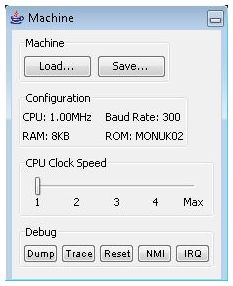
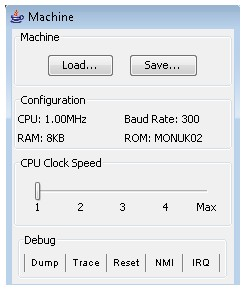
Updates for better operation on a Mac

diff --git a/docs/operation.html b/docs/operation.html
@@ -161,9 +161,8 @@ default mode is likely to confuse things.</p>
 These are used to perform a hardware reset on the CPU and on a real UK101
 you need to press both keys together to reset (the idea being that you
 don't press one accidentally while stabbing for the <tt>RETURN</tt> key).
-To emulate this in the simulator you can only do a reset by clicking
-one of the <tt>RESET</tt> keys (either one) with both mouse buttons 
-at once.</p>
+To emulate this in the simulator you can only do a reset by double-clicking
+either one of the <tt>RESET</tt> keys.</p>
 <hr>
 <h2 id="opcas">The Cassette Recorder</h2>
 <img src="image/opcas.jpg" alt="Cassette Recorder" align="left" hspace="10"/>

diff --git a/docs/quickstart.html b/docs/quickstart.html
@@ -147,8 +147,8 @@ in the <b>Debug</b> section of the
 <a href="operation.html#opctl">machine control panel</a>, or you can use 
 the <i>RESET</i> keys on the keyboard. 
 On a real UK101 you had to press both <i>RESET</i> keys together to do the 
-reset, on the simulator keyboard you simulate this by clicking on either one
-of the two keys but using both mouse buttons at once.</p>
+reset, on the simulator keyboard you simulate this by double-clicking on either 
+one of the two keys.</p>
 <br><table border="1" frame="above" rules="none" width="100%">
 <tr><td align="left">Tim Baldwin<br>April 2011
 <br><a href="mailto:tjb101@tinymail.co.uk">tjb101@tinymail.co.uk</a></td>

diff --git a/src/uk101/view/MachineView.java b/src/uk101/view/MachineView.java
@@ -6,23 +6,24 @@
 package uk101.view;
 
 import java.awt.Container;
-import java.awt.Dimension;
-import java.awt.FlowLayout;
 import java.awt.GridLayout;
 import java.awt.event.ActionEvent;
 import java.awt.event.ActionListener;
 
 import javax.swing.BorderFactory;
+import javax.swing.Box;
+import javax.swing.BoxLayout;
 import javax.swing.JButton;
+import javax.swing.JComponent;
 import javax.swing.JInternalFrame;
 import javax.swing.JPanel;
+import javax.swing.JToolBar;
 import javax.swing.Timer;
 import javax.swing.event.ChangeEvent;
 import javax.swing.event.ChangeListener;
 
 import uk101.machine.Computer;
 import uk101.view.component.DisplayText;
-import uk101.view.component.FlowPanel;
 import uk101.view.component.SmallButton;
 import uk101.view.component.SmallToggle;
 import uk101.view.component.SpeedSelector;
@@ -46,7 +47,7 @@ public class MachineView extends JInternalFrame implements ActionListener, Chang
     private Timer speedTimer;
 
     public MachineView(Computer computer, ComputerView computerView) {
-        super("Machine", true, false, false, true);
+        super("Machine", false, false, false, true);
         this.computer = computer;
 
         // Timer to update CPU actual speed
@@ -57,17 +58,18 @@ public class MachineView extends JInternalFrame implements ActionListener, Chang
 
         // Machine image load/save
         JPanel mp = new JPanel();
+        mp.setAlignmentY(CENTER_ALIGNMENT);
         mp.setBorder(BorderFactory.createTitledBorder("Machine"));
-        ((FlowLayout)mp.getLayout()).setHgap(5);
         JButton load = new JButton(ComputerView.IMAGE_LOAD);
         JButton save = new JButton(ComputerView.IMAGE_SAVE);
         load.addActionListener(computerView);
         save.addActionListener(computerView);
-        mp.add(load);
+        mp.add(load);  mp.add(Box.createHorizontalStrut(5));
         mp.add(save);
 
         // Information panel
         JPanel ip = new JPanel(new GridLayout(0, 2, 5, 5));
+        ip.setAlignmentY(CENTER_ALIGNMENT);
         ip.setBorder(BorderFactory.createTitledBorder("Configuration"));
         speed = new DisplayText("CPU", computer.cpu.getMHz() + ".00MHz");
         baud = new DisplayText("Baud Rate", computer.acia.getBaudRate() + "");
@@ -77,31 +79,46 @@ public class MachineView extends JInternalFrame implements ActionListener, Chang
         ip.add(new DisplayText("ROM", computer.monitor.getName()));
 
         // Debug panel
-        JPanel db = new JPanel();
-        db.setBorder(BorderFactory.createTitledBorder("Debug"));
-        ((FlowLayout)db.getLayout()).setHgap(3);
-        db.add(new SmallButton(MACHINE_DUMP, this));
-        db.add(new SmallToggle(MACHINE_TRACE, this));
-        db.add(new SmallButton(MACHINE_RESET, this));
-        db.add(new SmallButton(MACHINE_NMI, this));
-        db.add(new SmallButton(MACHINE_IRQ, this));
-        
+        JPanel dp = new JPanel();
+        dp.setAlignmentY(CENTER_ALIGNMENT);
+        dp.setBorder(BorderFactory.createTitledBorder("Debug"));
+        if (!Computer.nimbusFix1) {
+            // Adding small buttons to a JToolBar seems to work and look 
+            // better in most look-and-feels ...
+            JToolBar db = new JToolBar(JToolBar.HORIZONTAL);
+            db.setFloatable(false);
+            db.addSeparator();
+            db.add(new SmallButton(MACHINE_DUMP, this));  db.addSeparator();
+            db.add(new SmallToggle(MACHINE_TRACE, this)); db.addSeparator();
+            db.add(new SmallButton(MACHINE_RESET, this)); db.addSeparator();
+            db.add(new SmallButton(MACHINE_NMI, this));   db.addSeparator();
+            db.add(new SmallButton(MACHINE_IRQ, this));   db.addSeparator(); 
+            dp.add(db);
+        } else {
+            // ... however not in Nimbus as it gets JToolBar sizes wrong.  So
+            // we just use a regular flow panel here.  Annoying.
+            JPanel db = new JPanel();
+            db.add(new SmallButton(MACHINE_DUMP, this));
+            db.add(new SmallToggle(MACHINE_TRACE, this)); 
+            db.add(new SmallButton(MACHINE_RESET, this));
+            db.add(new SmallButton(MACHINE_NMI, this));
+            db.add(new SmallButton(MACHINE_IRQ, this)); 
+            dp.add(db);
+        }    
+    
         // CPU Speed control panel
         JPanel sp = new JPanel();
+        sp.setAlignmentY(CENTER_ALIGNMENT);
         sp.setBorder(BorderFactory.createTitledBorder("CPU Clock Speed"));
         cpuClock = new SpeedSelector(4, computer.cpu.getMHz(), this);
         sp.add(cpuClock);
-        
-         // Size the speed panel to be no wider than debug panel
-        Dimension d = sp.getPreferredSize();
-        d.setSize(Math.min(d.width, db.getPreferredSize().width), d.height);
-        sp.setPreferredSize(d);
-        
-        JPanel panel = new FlowPanel(FlowPanel.VERTICAL);
-        panel.add(mp);
-        panel.add(ip);
-        panel.add(sp);
-        panel.add(db);
+   
+        JPanel panel = new JPanel();
+        panel.setLayout(new BoxLayout(panel, BoxLayout.Y_AXIS));
+        panel.add(mp);  panel.add(Box.createVerticalStrut(3));
+        panel.add(ip);  panel.add(Box.createVerticalStrut(3));
+        panel.add(sp);  panel.add(Box.createVerticalStrut(3));
+        panel.add(dp);
         
         Container content = getContentPane();
         content.add(panel);

diff --git a/src/uk101/Main.java b/src/uk101/Main.java
@@ -143,7 +143,11 @@ public class Main implements Runnable {
                 else if (metalTheme.equalsIgnoreCase("Ocean")) 
                     MetalLookAndFeel.setCurrentTheme(new OceanTheme());
             }
-    
+            
+            // Nimbus look-and-feel has some bugs it looks better to workaround
+            if (lafClass.contains("nimbus"))
+                Computer.nimbusFix1 = true;
+            
             UIManager.setLookAndFeel(lafClass);
             JFrame.setDefaultLookAndFeelDecorated(true);
         }

diff --git a/src/uk101/view/KeyboardView.java b/src/uk101/view/KeyboardView.java
@@ -191,6 +191,12 @@ public class KeyboardView extends JInternalFrame implements ItemListener, MouseL
     }
 
     public void mouseClicked(MouseEvent e) {
+        KeyboardKey key = (KeyboardKey)e.getSource();
+        if (key.getCode() == Keyboard.KEY_RESET) {
+            if (e.getClickCount() > 1) {
+                computer.reset();
+            }
+        }
     }
 
     public void mouseEntered(MouseEvent e) {

diff --git a/src/uk101/machine/Computer.java b/src/uk101/machine/Computer.java
@@ -27,6 +27,7 @@ public class Computer extends Thread implements DataBus {
     // Some flags to control a few special hacks 
     public static boolean videoFix1 = false;
     public static boolean aciaFix1 = false;
+    public static boolean nimbusFix1 = false;
 
     // Version
     public String name;
